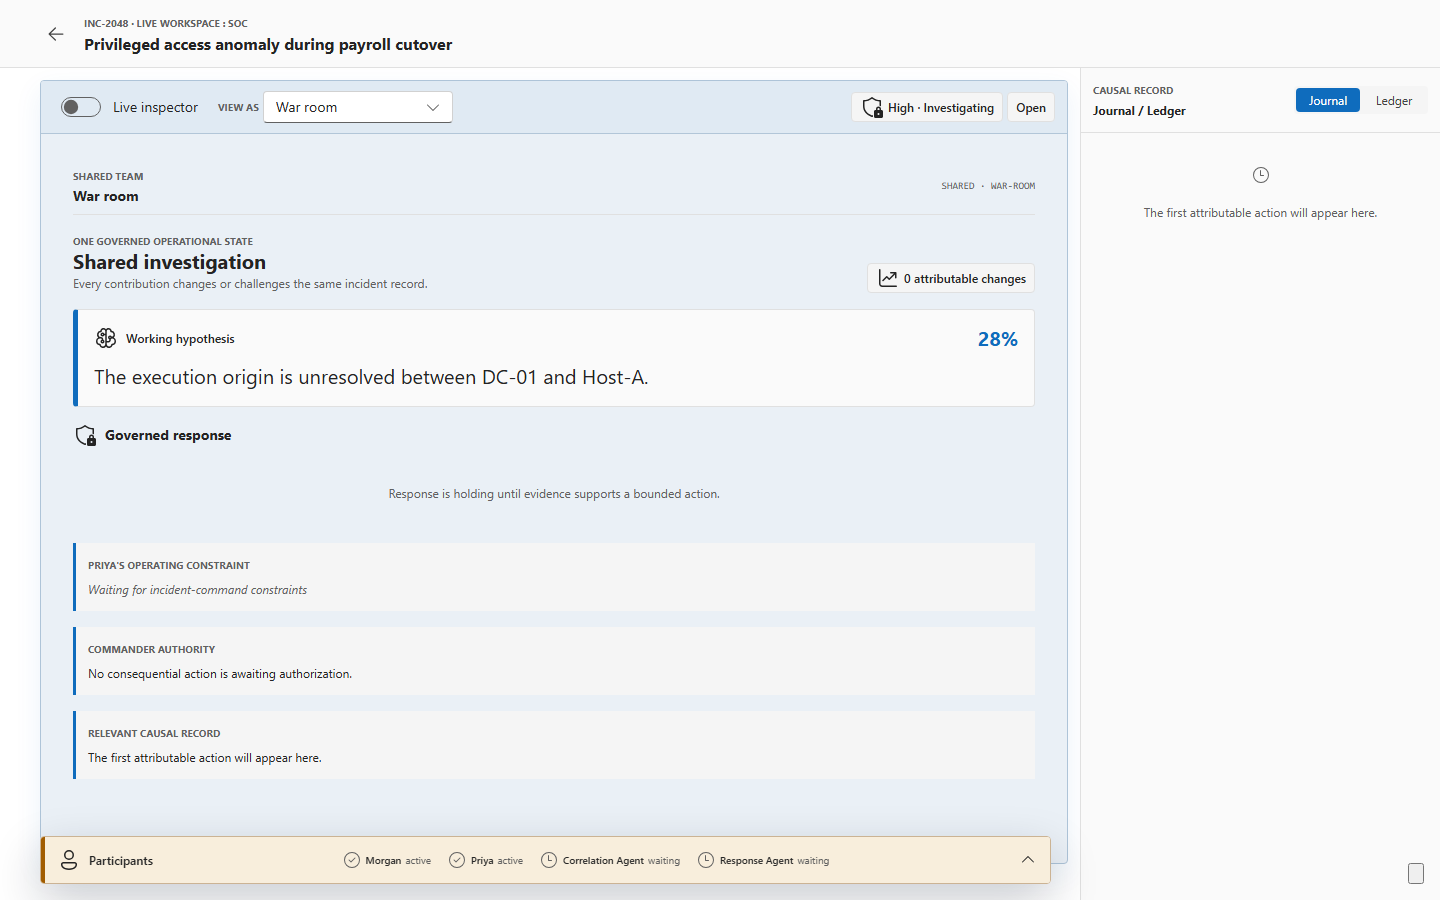
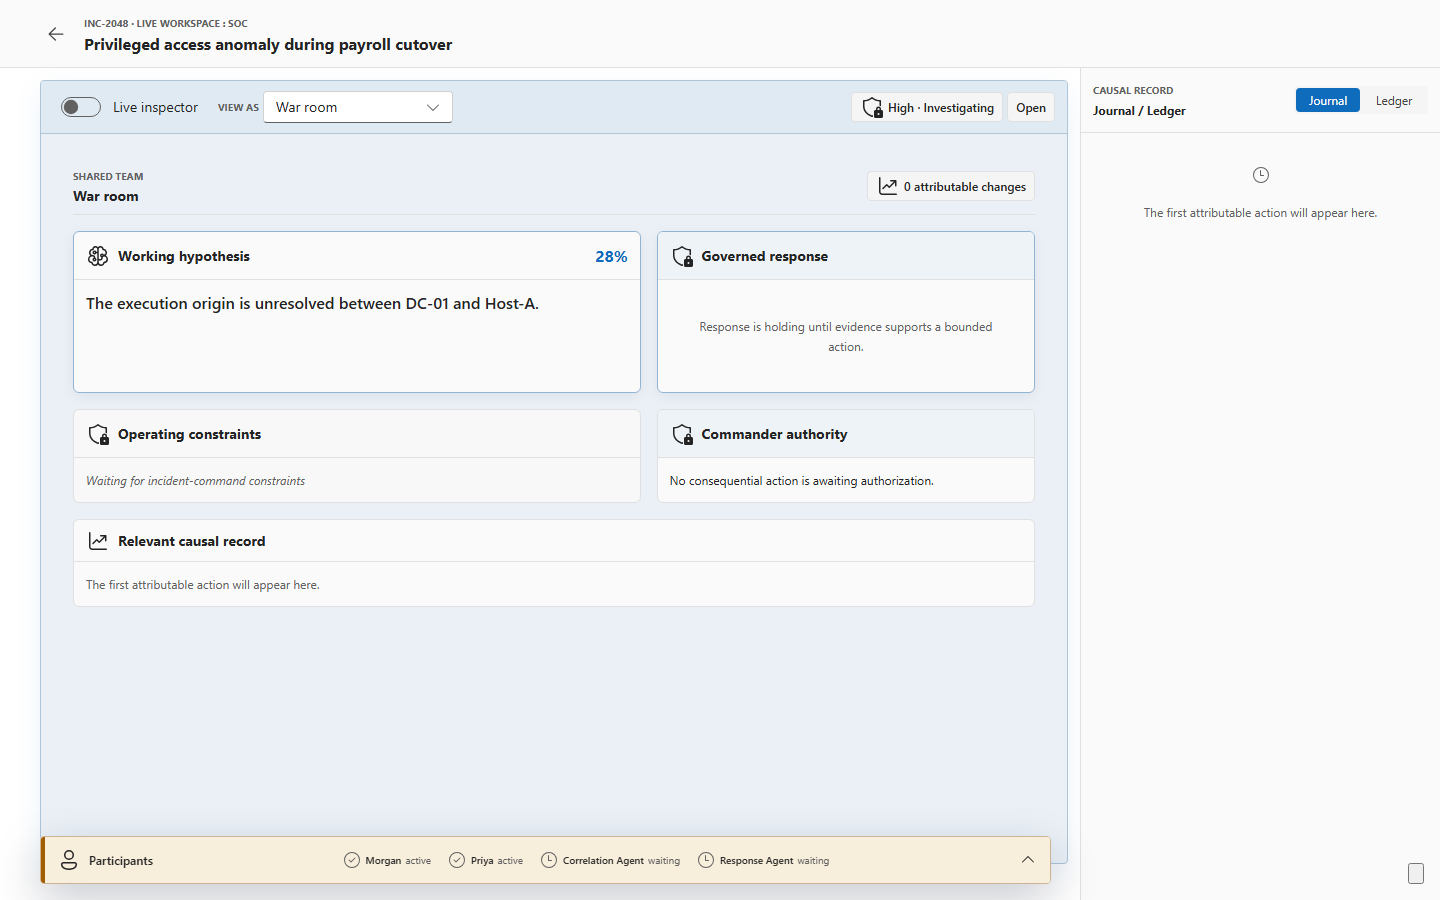
Complete SOC presentation lowering

diff --git a/samples/bundles/live-workspace-soc/projection_views/styles.ts b/samples/bundles/live-workspace-soc/projection_views/styles.ts
@@ -62,7 +62,7 @@ export const useStyles = makeStyles({
   frameLaptop: { maxWidth: "920px", padding: tokens.spacingVerticalL, border: `1px solid var(--line)`, borderRadius: tokens.borderRadiusMedium, backgroundColor: "var(--panel)" },
   framePager: { maxWidth: "540px", padding: tokens.spacingVerticalM, border: `1px solid var(--line)`, borderRadius: tokens.borderRadiusMedium, backgroundColor: "var(--panel)" },
   frameWorkstation: { maxWidth: "1100px" },
-  frameAgent: { maxWidth: "920px", padding: tokens.spacingVerticalL, borderLeft: `3px solid var(--accent)`, backgroundColor: "color-mix(in srgb, var(--panel) 88%, transparent)" },
+  frameAgent: { maxWidth: "920px", padding: tokens.spacingVerticalL, border: `1px solid var(--line)`, borderRadius: tokens.borderRadiusMedium, backgroundColor: "color-mix(in srgb, var(--panel) 88%, transparent)" },
   agentRequestSection: { display: "grid", gridTemplateColumns: "150px minmax(0, 1fr)", border: `1px solid var(--line)`, backgroundColor: "var(--panel)", "@media (max-width: 680px)": { gridTemplateColumns: "1fr" } },
   agentRequestLabel: { display: "grid", alignContent: "start", gap: tokens.spacingVerticalXXS, padding: tokens.spacingVerticalM, borderRight: `1px solid var(--line)`, backgroundColor: "var(--panel-2)", "@media (max-width: 680px)": { borderRight: 0, borderBottom: `1px solid var(--line)` } },
   agentRequestKind: { color: "var(--accent)", fontFamily: tokens.fontFamilyMonospace, fontSize: tokens.fontSizeBase100, fontWeight: tokens.fontWeightBold, textTransform: "uppercase" },
@@ -101,11 +101,20 @@ export const useStyles = makeStyles({
   regionPrioritySupporting: { boxShadow: "none" },
   regionPriorityPrimary: { borderTopColor: "color-mix(in srgb, var(--accent) 38%, var(--line))", borderRightColor: "color-mix(in srgb, var(--accent) 38%, var(--line))", borderBottomColor: "color-mix(in srgb, var(--accent) 38%, var(--line))", borderLeftColor: "color-mix(in srgb, var(--accent) 38%, var(--line))", boxShadow: "0 4px 14px rgba(15, 23, 42, .06)" },
   regionPriorityCritical: { borderTopColor: "color-mix(in srgb, var(--accent) 58%, var(--line))", borderRightColor: "color-mix(in srgb, var(--accent) 58%, var(--line))", borderBottomColor: "color-mix(in srgb, var(--accent) 58%, var(--line))", borderLeftColor: "color-mix(in srgb, var(--accent) 58%, var(--line))", boxShadow: "0 6px 18px rgba(15, 23, 42, .09)" },
+  regionPresentationBrief: { backgroundColor: "color-mix(in srgb, var(--panel-2) 48%, var(--panel))" },
+  regionPresentationFinding: { "& > div": { fontWeight: tokens.fontWeightSemibold } },
+  regionPresentationCollection: { "& > div": { paddingTop: tokens.spacingVerticalS, paddingBottom: tokens.spacingVerticalS } },
+  regionPresentationDecision: { "& > header": { backgroundColor: "color-mix(in srgb, var(--accent) 5%, var(--panel))" } },
+  regionPresentationAudit: { "& > header": { minHeight: "42px" }, "& > div": { color: "var(--muted)" } },
+  regionPresentationAgentRequest: { "& > header": { backgroundColor: "var(--panel-2)" } },
+  regionDisclosureStatus: { "& > header": { minHeight: "40px" }, "& > div": { maxHeight: "64px", paddingTop: tokens.spacingVerticalS, paddingBottom: tokens.spacingVerticalS, overflow: "hidden" } },
+  regionDisclosureSummary: { "& article:not(:last-child)": { display: "none" } },
+  regionDisclosureDetail: {},
+  regionDisclosureOmitted: { display: "none" },
   sharedTitle: { margin: 0, fontSize: tokens.fontSizeBase500 },
   sharedSubhead: { margin: `${tokens.spacingVerticalXXS} 0 0`, color: "var(--muted)" },
   contextRow: { display: "grid", gridTemplateColumns: "repeat(2, minmax(0, 1fr))", gap: tokens.spacingHorizontalM, "@media (max-width: 680px)": { gridTemplateColumns: "1fr" } },
   contextRowSingle: { gridTemplateColumns: "minmax(0, 1fr)" },
-  contextBand: { padding: tokens.spacingVerticalM, borderLeft: `3px solid var(--accent)`, backgroundColor: "var(--panel-2)" },
   causalHighlight: {
     outline: `2px solid var(--accent)`,
     outlineOffset: "2px",

diff --git a/samples/bundles/live-workspace-soc/projection_views/RegionSurface.tsx b/samples/bundles/live-workspace-soc/projection_views/RegionSurface.tsx
@@ -34,12 +34,33 @@ export const RegionSurface: ProjectionView = ({ node, children }) => {
   const metricValue = node.props.metricValue;
   const metricSuffix = String(node.props.metricSuffix ?? "");
   const Icon = icons[region as keyof typeof icons];
+  const priorityClasses = {
+    supporting: styles.regionPrioritySupporting,
+    primary: styles.regionPriorityPrimary,
+    critical: styles.regionPriorityCritical,
+  };
+  const presentationClasses = {
+    brief: styles.regionPresentationBrief,
+    finding: styles.regionPresentationFinding,
+    collection: styles.regionPresentationCollection,
+    decision: styles.regionPresentationDecision,
+    audit: styles.regionPresentationAudit,
+    "agent-request": styles.regionPresentationAgentRequest,
+  };
+  const disclosureClasses = {
+    status: styles.regionDisclosureStatus,
+    summary: styles.regionDisclosureSummary,
+    detail: styles.regionDisclosureDetail,
+    omitted: styles.regionDisclosureOmitted,
+  };
 
   return (
     <section
       className={mergeClasses(
         styles.regionSurface,
-        styles[`regionPriority${facet.priority[0].toUpperCase()}${facet.priority.slice(1)}` as keyof typeof styles],
+        priorityClasses[facet.priority],
+        presentationClasses[facet.presentation],
+        disclosureClasses[facet.disclosure],
         selectionTargetsRecord(activeSelection, focusTargets) ? styles.causalHighlight : undefined,
       )}
       data-soc-region={region}

diff --git a/samples/bundles/live-workspace-soc/scenario.test.ts b/samples/bundles/live-workspace-soc/scenario.test.ts
@@ -223,7 +223,6 @@ test("presentation context changes projection metadata without changing the caus
     revision: number;
     frame: string;
     arrangement: string;
-    regions: string[];
     regionFacets: Record<string, {
       visible: boolean;
       rank: number;
@@ -238,7 +237,6 @@ test("presentation context changes projection metadata without changing the caus
   assert.equal(presentation.revision, 1);
   assert.equal(presentation.frame, "laptop");
   assert.equal(presentation.arrangement, "command");
-  assert.deepEqual(presentation.regions, ["summary", "constraints", "hypothesis", "evidence", "response", "authorization", "causal-record"]);
   assert.deepEqual(presentation.regionFacets.authorization, {
     visible: true,
     rank: 5,
@@ -246,7 +244,7 @@ test("presentation context changes projection metadata without changing the caus
     disclosure: "summary",
     concern: "governance",
     group: "governance",
-    presentation: "substrate-region",
+    presentation: "decision",
   });
   assert.deepEqual(presentation.regionFacets.exploration, {
     visible: false,
@@ -255,7 +253,7 @@ test("presentation context changes projection metadata without changing the caus
     disclosure: "omitted",
     concern: "investigation",
     group: "investigation",
-    presentation: "substrate-region",
+    presentation: "collection",
   });
   assert.deepEqual(store.get("soc.journal"), journalBefore);
 });

diff --git a/samples/bundles/live-workspace-soc/projection_views/ViewpointHeader.tsx b/samples/bundles/live-workspace-soc/projection_views/ViewpointHeader.tsx
@@ -1,16 +1,26 @@
 import { DataTrending24Regular } from "@fluentui/react-icons";
 import type { ProjectionView } from "@gik/react";
 import { useStyles } from "./styles";
-import type { JournalEntry, Presentation } from "./types";
+import type { JournalEntry, Presentation, PresentationRegionFacet } from "./types";
 
 export const ViewpointHeader: ProjectionView = ({ node }) => {
   const styles = useStyles();
   const presentation = node.props.presentation as unknown as Presentation;
   const journal = (node.props.journal ?? []) as unknown as JournalEntry[];
+  const facet = node.props.facet as unknown as PresentationRegionFacet;
   const selectedContext = presentation.contexts.find((item) => item.id === presentation.selectedContext) ?? presentation.contexts[0];
 
   return (
-    <header className={styles.viewpointIdentity} style={{ order: -2 }}>
+    <header
+      className={styles.viewpointIdentity}
+      data-soc-region="summary"
+      data-soc-concern={facet.concern}
+      data-soc-group={facet.group}
+      data-soc-priority={facet.priority}
+      data-soc-disclosure={facet.disclosure}
+      data-soc-presentation={facet.presentation}
+      style={{ order: -2 }}
+    >
       <div>
         <div className={styles.eyebrow}>{selectedContext.audience}</div>
         <h2 className={styles.viewpointName}>{selectedContext.label}</h2>

diff --git a/samples/apps/host/parity/soc-parity.spec.ts b/samples/apps/host/parity/soc-parity.spec.ts
@@ -56,7 +56,7 @@ test("demo runner expands, collapses, and brokers semantic timeline focus", asyn
   await expect(page.getByRole("heading", { name: "Intent to runnable bundle" })).toBeVisible();
   await expect(inspectorSwitch).toBeChecked();
   await inspectorSwitch.click();
-  await expect(page.getByRole("heading", { name: "Shared investigation" })).toBeVisible();
+  await expect(page.getByRole("heading", { name: "War room" })).toBeVisible();
   await expect(inspectorSwitch).not.toBeChecked();
   await expect(page).toHaveScreenshot("soc-demo-expanded-desktop.png");
 
@@ -72,7 +72,7 @@ test("demo runner expands, collapses, and brokers semantic timeline focus", asyn
   await expect(page.getByText(/SOC outcome · committed · Morgan/i)).toBeVisible();
   await organismEntry.click();
   await expect(organismEntry).toHaveAttribute("aria-pressed", "true");
-  await expect(page.locator('[data-soc-object-id="intent"]')).toHaveCSS("outline-style", "solid");
+  await expect(page.locator('[data-soc-region="intent"]')).toHaveCSS("outline-style", "solid");
   await page.getByRole("button", { name: "Journal" }).click();
   await expect(scenarioEntry).toHaveCount(0);
   await page.getByRole("button", { name: "Participants" }).click();

diff --git a/samples/profiles/live-workspace-soc/blueprint.test.ts b/samples/profiles/live-workspace-soc/blueprint.test.ts
@@ -120,6 +120,22 @@ test("human contexts lower regions into stable operational groups", () => {
   ]);
 });
 
+test("presentation lowering assigns semantic visual archetypes", () => {
+  const full = compileSocPresentation("full-substrate").regions;
+  assert.deepEqual(full.map((region) => [region.name, region.presentation]), [
+    ["summary", "brief"],
+    ["intent", "brief"],
+    ["constraints", "brief"],
+    ["hypothesis", "finding"],
+    ["exploration", "collection"],
+    ["evidence", "collection"],
+    ["agent-request", "agent-request"],
+    ["response", "decision"],
+    ["authorization", "decision"],
+    ["causal-record", "audit"],
+  ]);
+});
+
 test("agent contexts lower into context, state, request, response, and governed-result groups", () => {
   for (const contextId of ["correlation-agent", "response-agent"]) {
     const visible = compileSocPresentation(contextId).regions.filter((region) => region.disclosure !== "omitted" && region.materialize === false);

diff --git a/samples/bundles/live-workspace-soc/projection_views/causal-highlighting.test.ts b/samples/bundles/live-workspace-soc/projection_views/causal-highlighting.test.ts
@@ -26,7 +26,7 @@ function presentationContract(contextId: string) {
       disclosure: region.disclosure,
       concern: region.concern ?? "substrate",
       group: region.group ?? "substrate",
-      presentation: region.presentation ?? "substrate-region",
+      presentation: region.presentation ?? "brief",
     }])),
   };
 }
@@ -125,5 +125,6 @@ test("presentation contexts produce distinct substrate frames and disclosure", (
   assert.deepEqual(correlation.regions, ["summary", "intent", "constraints", "hypothesis", "agent-request", "exploration", "evidence", "causal-record"]);
   assert.equal(correlation.regionFacets.evidence.group, "response");
   assert.equal(correlation.regionFacets.evidence.concern, "investigation");
+  assert.equal(correlation.regionFacets.evidence.presentation, "collection");
   assert.equal(correlation.regionFacets["agent-request"].presentation, "agent-request");
 });

diff --git a/samples/bundles/live-workspace-soc/projection_views/types.ts b/samples/bundles/live-workspace-soc/projection_views/types.ts
@@ -18,7 +18,6 @@ export interface Presentation {
   revision: number;
   frame: SocPresentationSpec["frame"];
   arrangement: SocPresentationSpec["arrangement"];
-  regions: SubstrateRegion[];
   regionFacets: Record<SubstrateRegion, PresentationRegionFacet>;
   contexts: PresentationContext[];
 }
@@ -32,7 +31,7 @@ export interface PresentationRegionFacet {
   disclosure: "status" | "summary" | "detail" | "omitted";
   concern: "orientation" | "guardrails" | "investigation" | "delegation" | "response" | "governance" | "provenance";
   group: "orientation" | "guardrails" | "investigation" | "response" | "governance" | "provenance" | "context" | "shared-state" | "request" | "governed-result";
-  presentation: "substrate-region" | "agent-request";
+  presentation: "brief" | "finding" | "collection" | "decision" | "audit" | "agent-request";
 }
 
 export interface SocPresentationSpec {

diff --git a/samples/bundles/live-workspace-soc/effect_handlers/index.ts b/samples/bundles/live-workspace-soc/effect_handlers/index.ts
@@ -27,7 +27,6 @@ function presentationContract(contextId: string): RecordValue {
   return {
     frame: presentation.frame ?? "shared",
     arrangement: presentation.arrangement,
-    regions: visibleRegions.map((region) => region.name),
     regionFacets: Object.fromEntries(substrateRegions.map((region) => [region.name, {
       visible: region.disclosure !== "omitted",
       rank: region.disclosure === "omitted" ? 50 : visibleRegions.indexOf(region),
@@ -35,7 +34,7 @@ function presentationContract(contextId: string): RecordValue {
       disclosure: region.disclosure,
       concern: region.concern ?? "substrate",
       group: region.group ?? "substrate",
-      presentation: region.presentation ?? "substrate-region",
+      presentation: region.presentation ?? "brief",
     }])),
   };
 }

diff --git a/todo/working-doc.md b/todo/working-doc.md
@@ -17,23 +17,33 @@ Target runtime composition:
 
 ```
 soc:runtime-projection
-  soc:viewpoint-header
+  soc:viewpoint-header [materializes summary/orientation]
   soc:presentation-layout
-    soc:summary-region
-    soc:intent-region
-    soc:constraints-region
-    soc:hypothesis-region
-    soc:exploration-region
-    soc:evidence-region
-    soc:agent-request-region
-    soc:response-region
-    soc:authorization-region
-    soc:causal-record-region
+    soc:region-surface [brief]
+      soc:intent-region
+    soc:region-surface [brief]
+      soc:constraints-region
+    soc:region-surface [finding]
+      soc:hypothesis-region
+    soc:region-surface [collection]
+      soc:exploration-region
+    soc:region-surface [collection]
+      soc:evidence-region
+    soc:region-surface [agent-request]
+      soc:agent-request-region
+    soc:region-surface [decision]
+      soc:response-region
+    soc:region-surface [decision]
+      soc:authorization-region
+    soc:region-surface [audit]
+      soc:causal-record-region
 ```
 
-`RuntimeProjection` remains the presentation-frame boundary. `PresentationLayout` materializes
-the lowered arrangement. The runtime document owns the complete leaf set, visibility gates,
-state reads, event bindings, and stable node identities.
+`RuntimeProjection` remains the presentation-frame boundary. `ViewpointHeader` is the compact
+materializer for the Interaction-owned summary part. `PresentationLayout` materializes the
+lowered arrangement, while each `RegionSurface` materializes archetype, priority, and disclosure
+around one body-only semantic leaf. The runtime document owns the complete leaf set, visibility
+gates, state reads, event bindings, and stable node identities.
 
 ## Presentation contract
 
@@ -44,12 +54,10 @@ meaning. It owns selection, `rank`, `priority`, `disclosure`, presentation `grou
 arrangement, and materializer variant. Runtime lowering owns concrete capabilities, gates,
 reads, events, children, and stable identities.
 
-Presentation lowering already computes `rank`, `priority`, `disclosure`, `group`,
-`presentation`, and `materialize`, but runtime state currently collapses those facets to an
-ordered array of region names. Preserve an addressable facet for every region so document gates
-and leaves can consume the lowered decisions directly. During migration, retain the ordered
-`regions` list for compatibility and add `regionFacets`; remove the reduced list only after the
-monolithic views are gone.
+Presentation lowering computes `rank`, `priority`, `disclosure`, `group`, `presentation`, and
+`materialize`. Runtime state preserves one addressable facet for every region so document gates
+and surfaces consume those lowered decisions directly; the migration-only ordered `regions` list
+has been removed.
 
 Each runtime facet owns:
 
@@ -105,6 +113,9 @@ it does not reconstruct them from `selectedContext`.
 6. [x] Add inspection, command, glanceable, and agent arrangements.
 7. [x] Delete `OperationalView` and `AgentEnvelope`, including render-time Blueprint tracing.
 8. [x] Validate all eight contexts behaviorally and at desktop/mobile widths, with representative screenshots.
+9. [x] Standardize semantic leaves through lowered `soc:region-surface` wrappers.
+10. [x] Assign and materialize `brief`, `finding`, `collection`, `decision`, `audit`, and `agent-request` archetypes.
+11. [x] Materialize summary through `ViewpointHeader` and remove the duplicate runtime `regions` list.
 
 Scope rule: preserve exact SOC operational behavior, attribution, authority, demo sequencing,
 and causal focus while changing projection composition.
